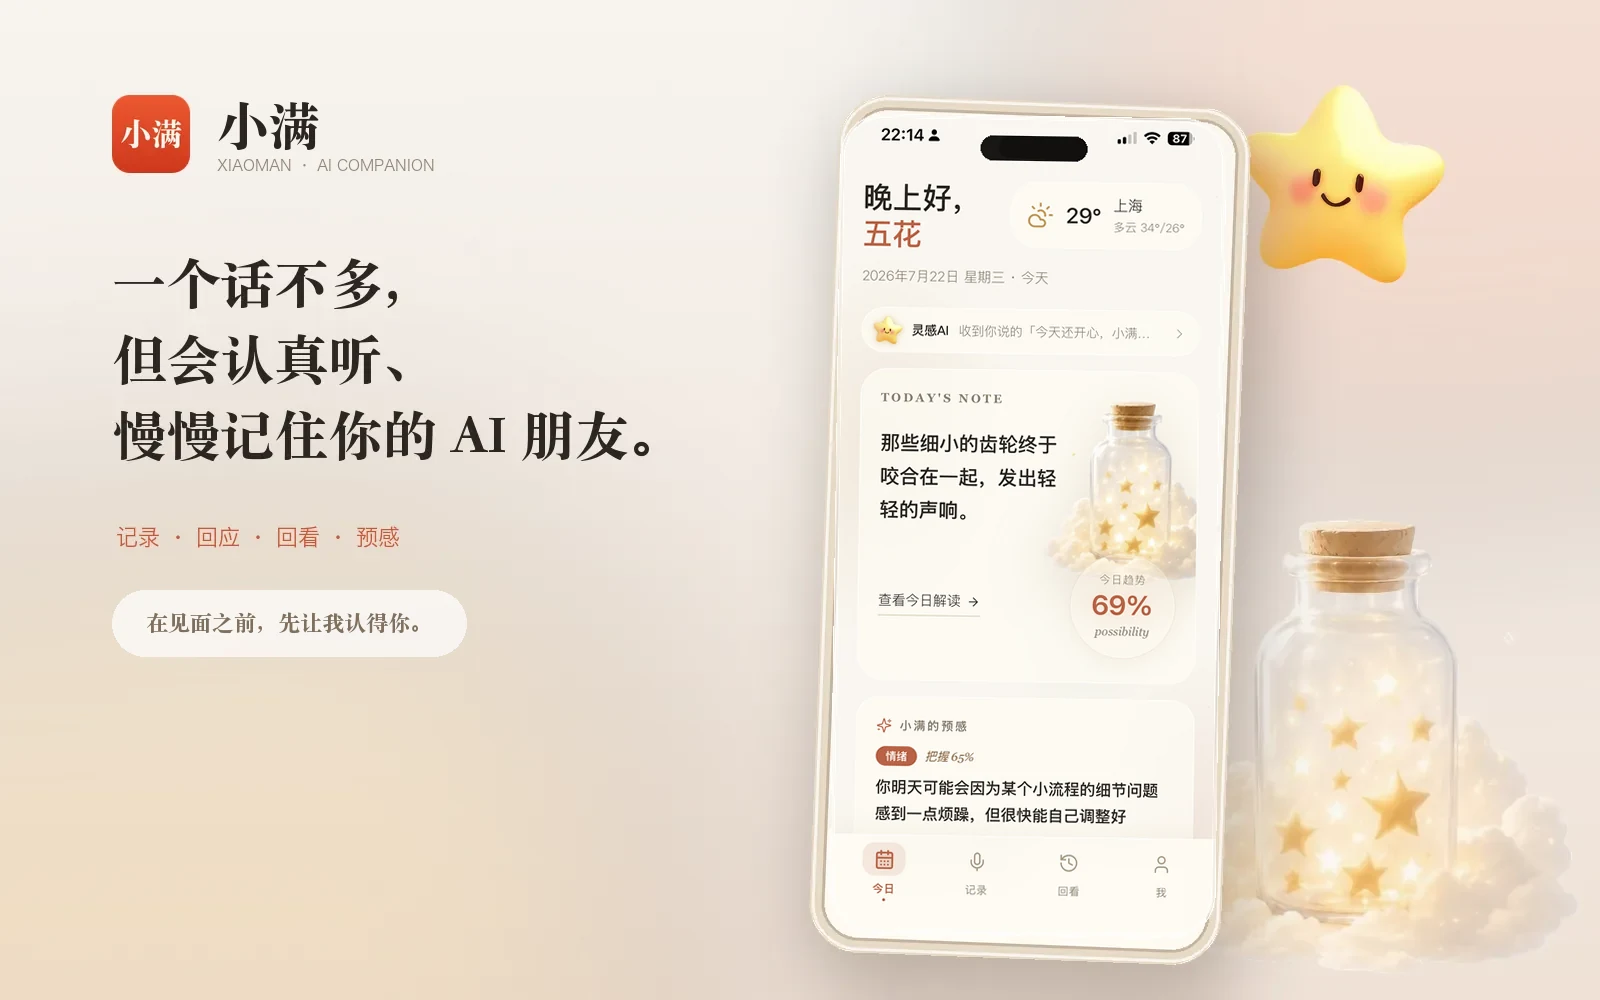
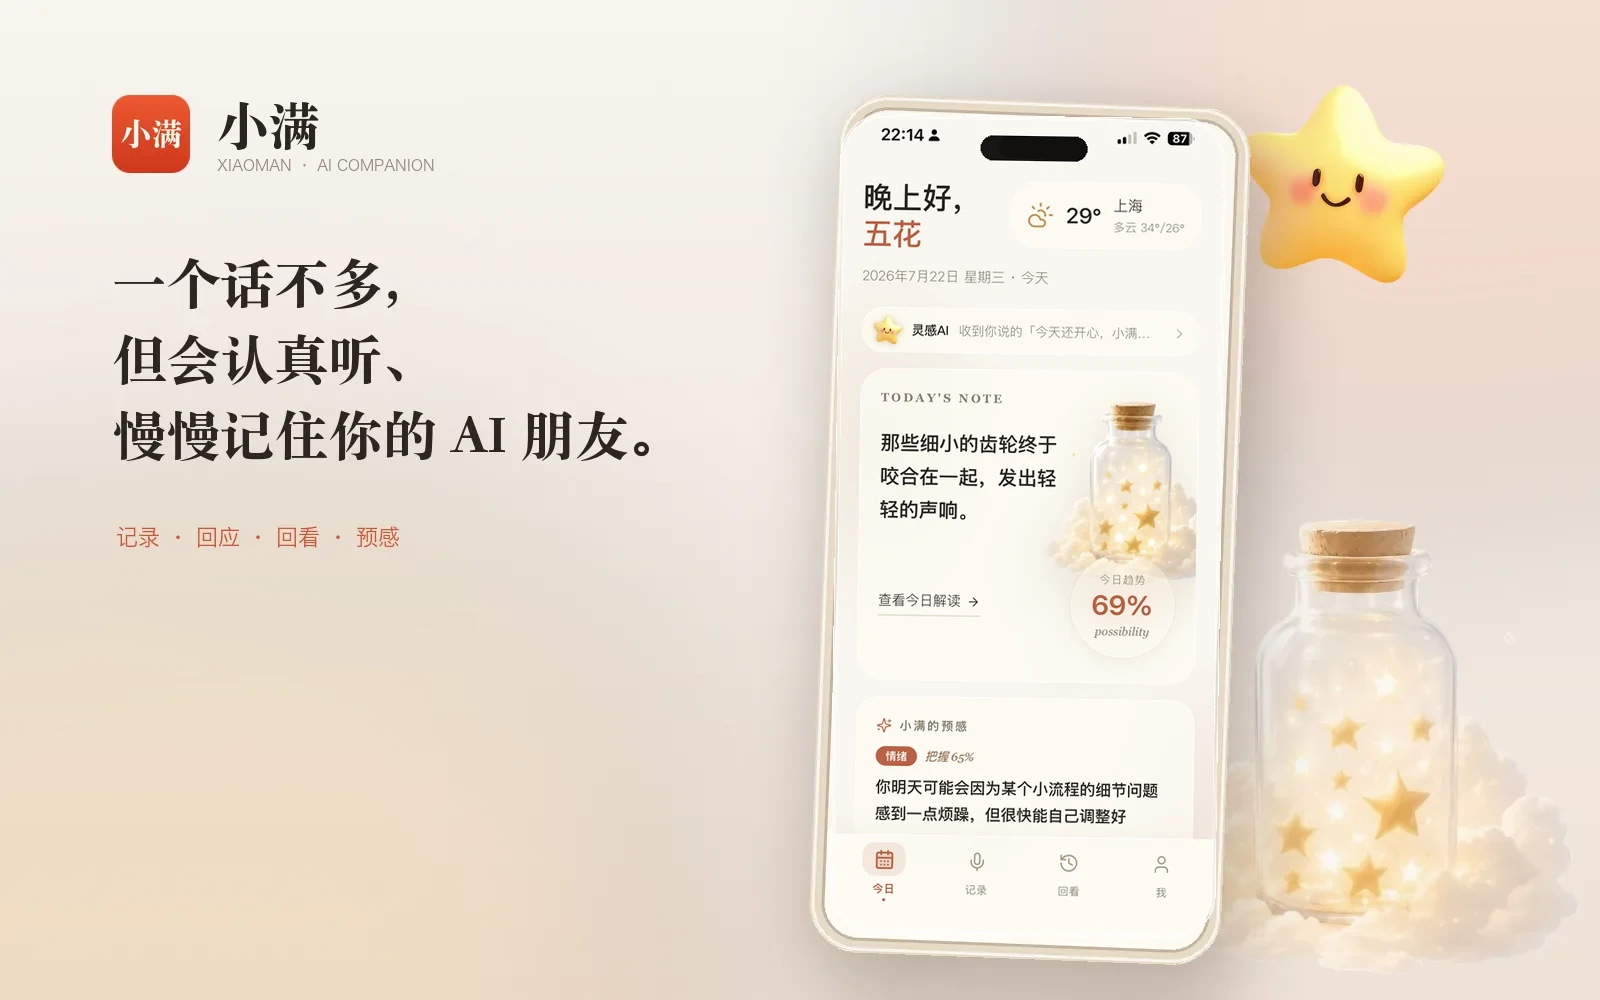
docs: simplify README hero and setup

Changed region(s): [[0.0625, 0.589, 0.3125, 0.682]]

diff --git a/README.md b/README.md
@@ -58,23 +58,6 @@
 | AI 能力 | OpenAI 兼容接口，本地启发式逻辑兜底 |
 | 部署与终端 | Vercel、Web App Manifest |
 
-## 本地启动
-
-建议使用 Node.js 20 LTS 和仓库内的 `package-lock.json`：
-
-```bash
-git clone https://github.com/jinbowen1990221-lgtm/xiaoman.git
-cd xiaoman
-
-npm ci
-cp .env.example .env.local
-npm run dev
-```
-
-本地开发服务器默认运行在 [http://localhost:3000](http://localhost:3000)。
-
-未配置 Supabase 和短信服务时，本地开发会使用进程内存存储，并可使用 `.env.example` 中的开发验证码。开发服务器重启后，内存数据会消失；生产环境不会启用这些开发兜底。
-
 ## 环境变量
 
 将 `.env.example` 复制为 `.env.local`，再按需要填写：